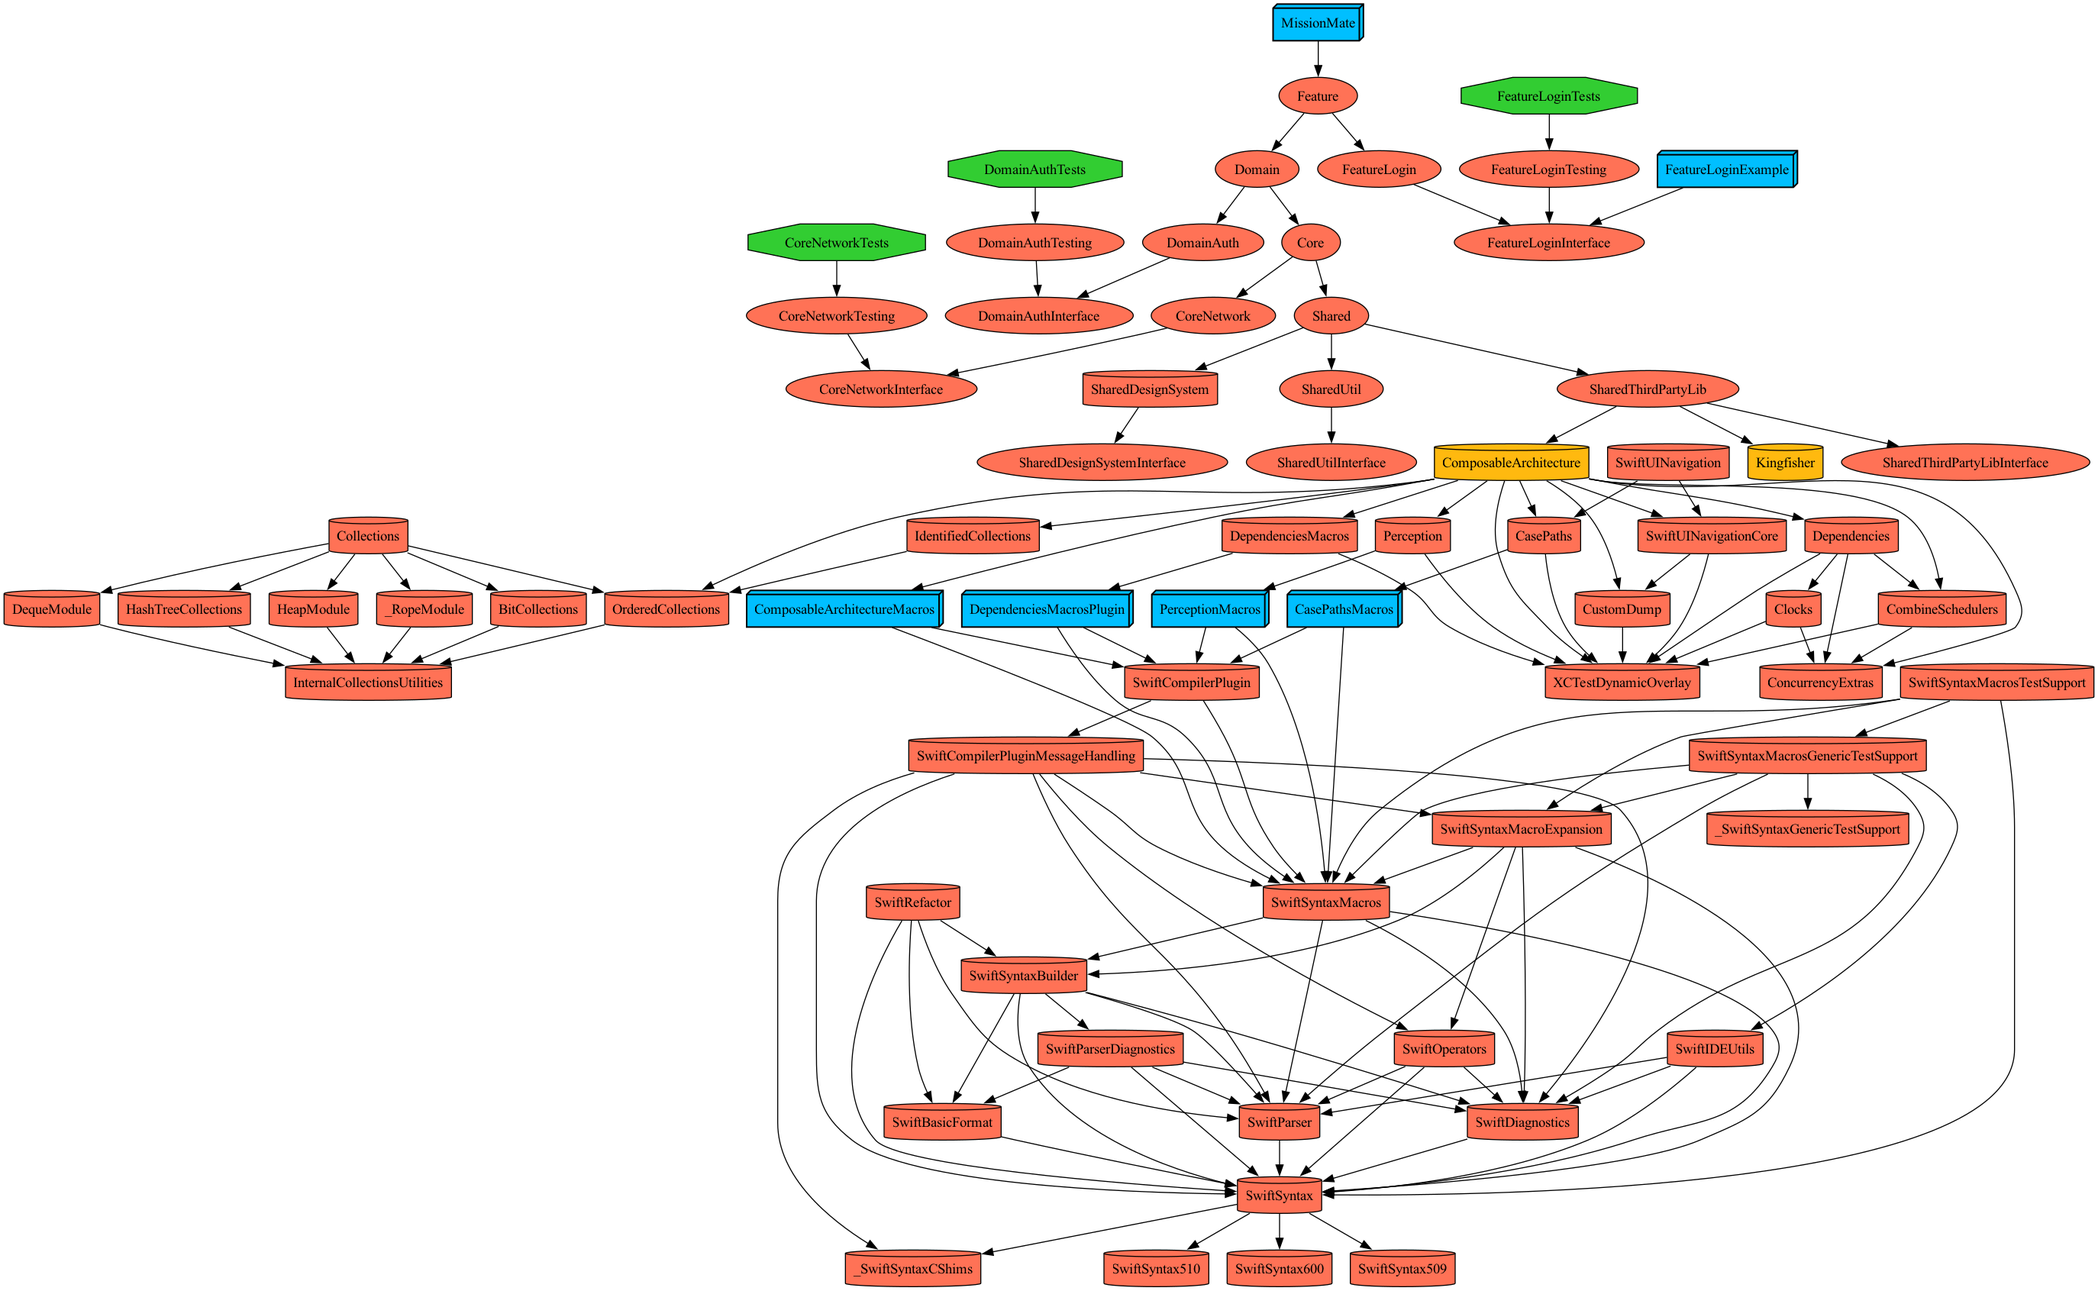
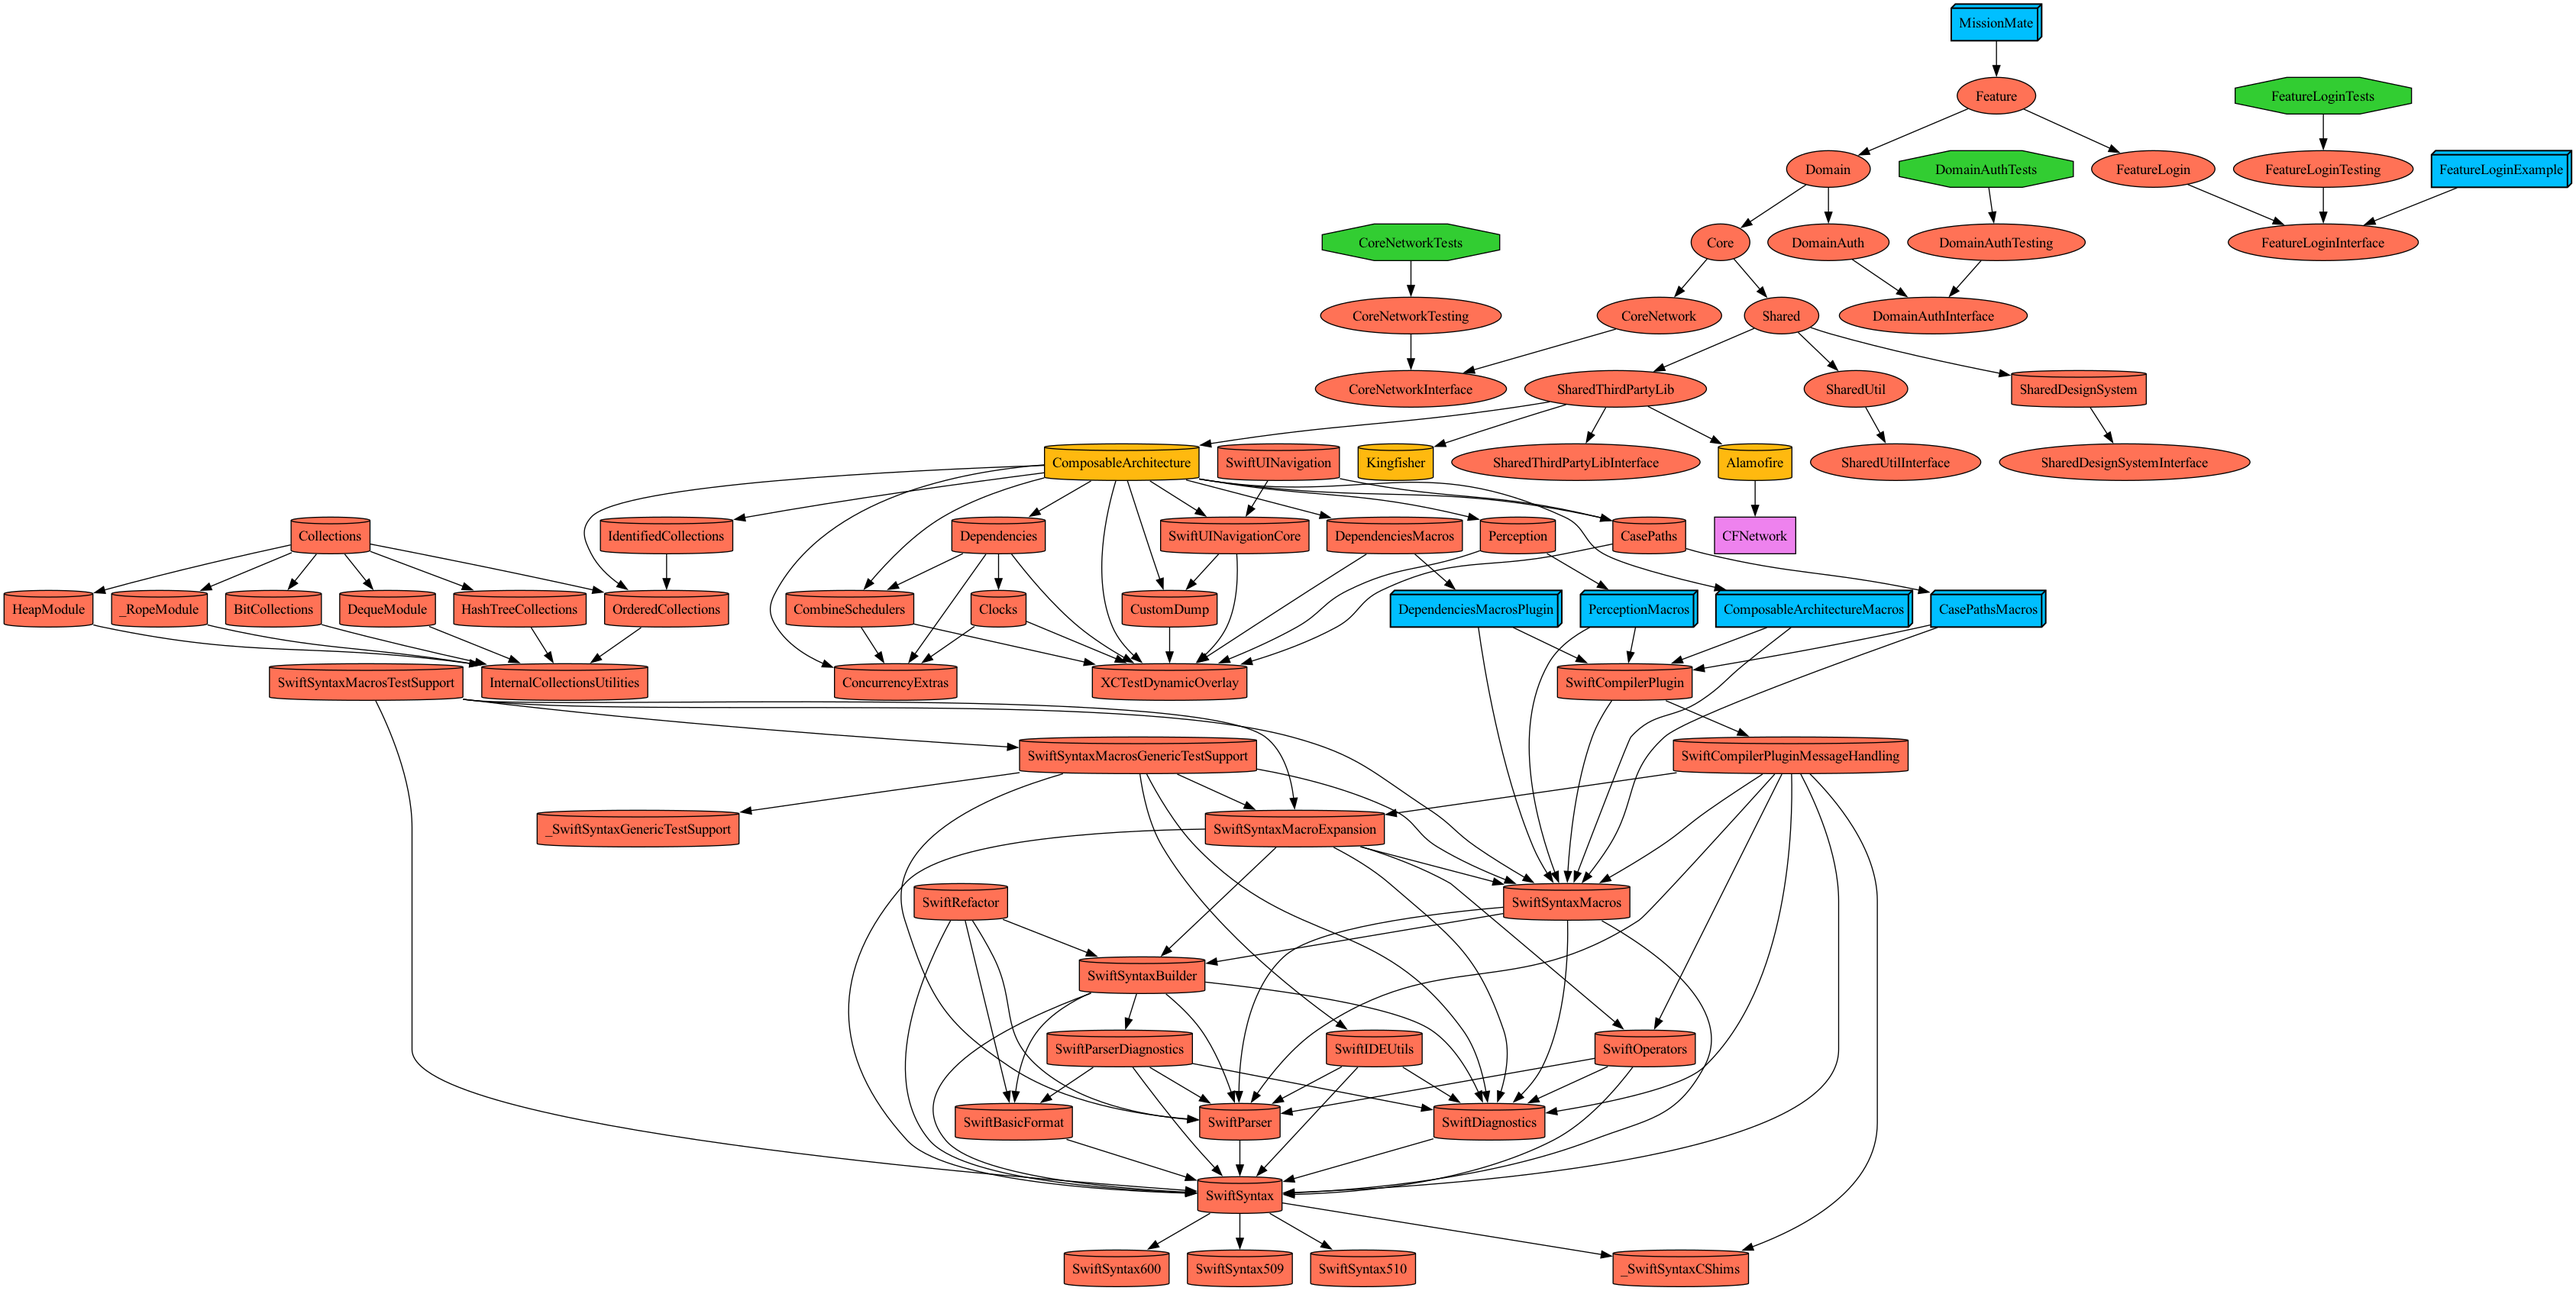
feature#2 core network 구현 1차

diff --git a/Projects/Core/Network/Interface/Sources/Interface.swift b/Projects/Core/Network/Interface/Sources/Interface.swift
@@ -4,5 +4,140 @@
 //
 //  Created by Haeseok Lee on 7/16/24.
 //
-
 import Foundation
+import Alamofire
+
+extension Encodable  {
+    public func toDictionary() throws -> [String : Any]? {
+        let data = try JSONEncoder().encode(self)
+        let jsonObject = try JSONSerialization.jsonObject(with: data)
+        return jsonObject as? [String : Any]
+    }
+}
+
+
+public protocol Networkable: Requestable, Responsable { }
+
+public protocol Requestable {
+    var path: String { get }
+    var httpMethod : HTTPMethod { get }
+    var queryParameters: Encodable? { get }
+    var bodyParameters: Encodable? { get }
+    var headers: [String : String]? { get }
+}
+
+extension Requestable {
+    
+    private func makeURLComponents() throws -> URLComponents? {
+//        guard let baseURL = Bundle.main.infoDictionary?["BASE_URL"] as? String else {
+//            throw NSError()
+//        }
+        let baseURL = ""
+        return URLComponents(string: baseURL + path)
+    }
+    
+    
+    private func getQueryParameters() throws -> [URLQueryItem]? {
+        guard let queryParameters else {
+            return nil
+        }
+        
+        guard let queryDictionary = try? queryParameters.toDictionary() else {
+            throw NSError()
+        }
+        
+        var queryItemList : [URLQueryItem] = []
+        
+        queryDictionary.forEach { (key, value) in
+            let queryItem = URLQueryItem(name: key, value: "\(value)")
+            queryItemList.append(queryItem)
+        }
+        
+        if queryItemList.isEmpty {
+            return nil
+        }
+        
+        return queryItemList
+    }
+    
+    public func makeURLRequest() throws -> URLRequest {
+        guard var urlComponent = try makeURLComponents() else {
+            throw NSError()
+        }
+        
+        if let queryItems = try getQueryParameters() {
+            urlComponent.queryItems = queryItems
+        }
+        
+        guard let url = urlComponent.url else {
+            throw NSError()
+        }
+        
+        var urlRequest = URLRequest(url: url)
+        
+        if let bodyParameters, let httpBody = try? JSONEncoder().encode(bodyParameters) {
+            urlRequest.httpBody = httpBody
+        }
+        
+        if let headers {
+            headers.forEach { key, value in
+                urlRequest.setValue(value, forHTTPHeaderField: key)
+            }
+        }
+        
+        urlRequest.setValue("application/json", forHTTPHeaderField: "Content-Type")
+        urlRequest.httpMethod = httpMethod.rawValue
+        
+        return urlRequest
+    }
+}
+
+public protocol Responsable {
+    associatedtype Response
+}
+
+public struct Endpoint<R>: Networkable {
+    
+    public typealias Response = R
+    
+    public var path: String
+    public var httpMethod: HTTPMethod
+    public var queryParameters: Encodable?
+    public var bodyParameters: Encodable?
+    public var headers: [String : String]?
+    
+    public init(path: String,
+                httpMethod: HTTPMethod,
+                queryParameters: Encodable? = nil,
+                bodyParameters : Encodable? = nil,
+                headers: [String : String]? = nil
+    ) {
+        self.path = path
+        self.httpMethod = httpMethod
+        self.queryParameters = queryParameters
+        self.bodyParameters = bodyParameters
+        self.headers = headers
+    }
+}
+
+
+public protocol NetworkProviderType {
+    
+    func sendRequest<N: Networkable, T: Decodable>(_ endpoint: N) async throws -> T where N.Response == T
+}
+
+public struct NetworkProvider: NetworkProviderType {
+    
+    public static let shared: NetworkProviderType = NetworkProvider()
+    
+    public func sendRequest<N: Networkable, T: Decodable>(_ endpoint: N) async throws -> T where N.Response == T {
+        let urlRequest: URLRequest = try endpoint.makeURLRequest()
+        let dataTask = AF.request(urlRequest).validate().serializingDecodable(T.self)
+        print(dataTask)
+        print(await dataTask.result)
+        print((await dataTask.response).response?.statusCode)
+        return try await dataTask.value
+    }
+    
+    private init() {}
+}

diff --git a/Projects/App/Sources/RootApp.swift b/Projects/App/Sources/RootApp.swift
@@ -1,10 +1,19 @@
 import SwiftUI
+import CoreNetwork
+import CoreNetworkInterface
+import SharedThirdPartyLib
+import Alamofire
 
 @main
 struct MissionMateApp: App {
   var body: some Scene {
     WindowGroup {
-      ContentView()
+        ContentView().onAppear(perform: {
+            Task {
+                let provider = try await NetworkProvider.shared.sendRequest(Test.test(RequestDTO()))
+                print(provider)
+            }
+        })
     }
   }
 }
@@ -16,3 +25,18 @@ struct ContentView: View {
     }
   }
 }
+
+struct RequestDTO: Encodable {
+    
+}
+
+struct ResponseDTO: Decodable {
+    let ip: String
+}
+
+struct Test {
+    static func test(_ requestDTO: RequestDTO) -> Endpoint<ResponseDTO> {
+        return Endpoint<ResponseDTO>(path: "http://ip.jsontest.com", httpMethod: HTTPMethod.get, bodyParameters: requestDTO)
+    }
+}
+

diff --git a/Projects/Core/Network/Project.swift b/Projects/Core/Network/Project.swift
@@ -7,7 +7,11 @@ let project = Project.makeModule(
     targets: [    
         .core(
             interface: .Network,
-            factory: .init()
+            factory: .init(
+                dependencies: [
+                    .shared
+                ]
+            )
         ),
         .core(
             implements: .Network,

diff --git a/Projects/Shared/Util/Sources/Extensions/Encodable+.swift b/Projects/Shared/Util/Sources/Extensions/Encodable+.swift
@@ -1,0 +1,11 @@
+//
+//  Encodable+.swift
+//  SharedUtil
+//
+//  Created by Haeseok Lee on 7/18/24.
+//
+
+import Foundation
+import SharedUtilInterface
+
+

diff --git a/Projects/Shared/ThirdPartyLib/Interface/Sources/Interface.swift b/Projects/Shared/ThirdPartyLib/Interface/Sources/Interface.swift
@@ -4,5 +4,3 @@
 //
 //  Created by Haeseok Lee on 7/16/24.
 //
-
-import Foundation
